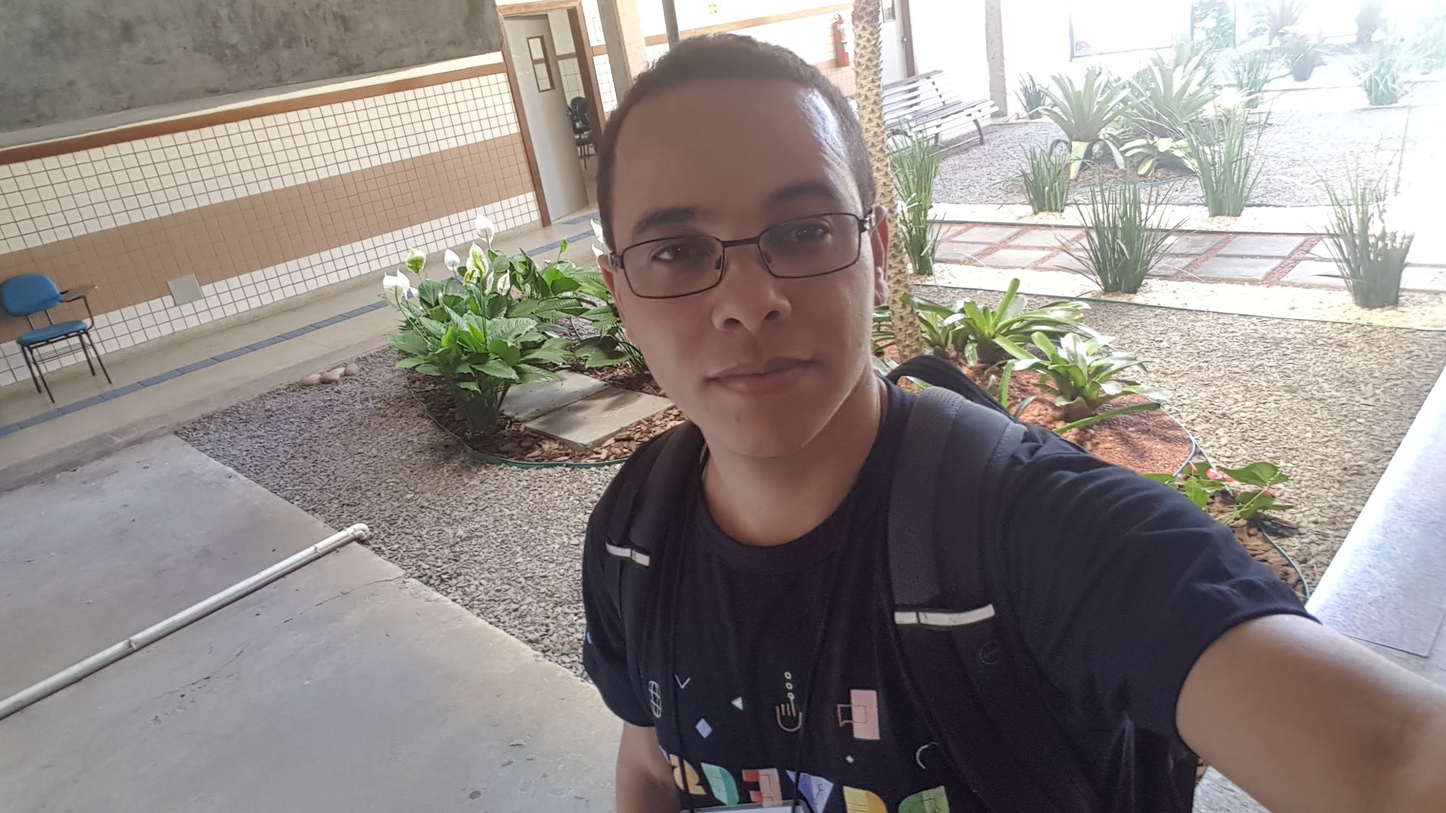
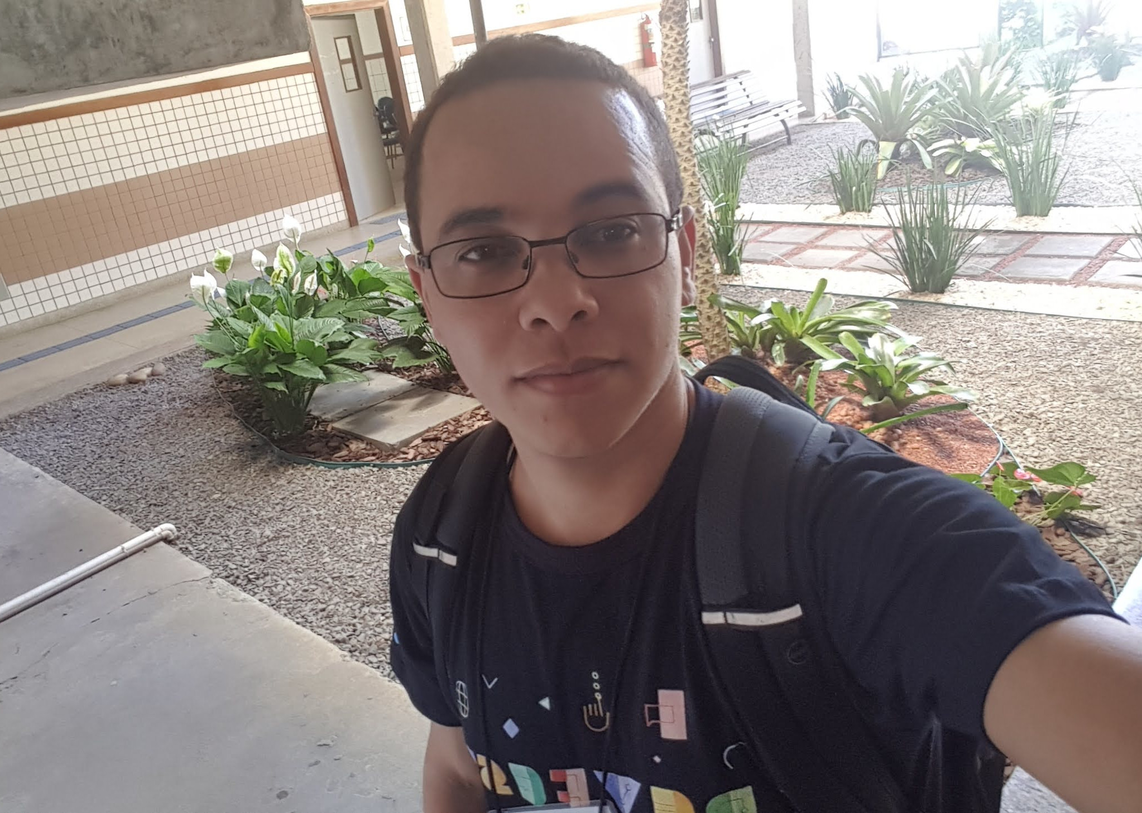
correção de portugues

diff --git a/index.html b/index.html
@@ -251,9 +251,9 @@
                     <div class="row">
                         <div class="col-lg-6">
                             <div class="owl-carousel sobre-nos-carousel">
-                                <img src="img/sintese/membros/alex-gdg.jpg" alt="Membros Sintese Jr.">
-<!--                                <img src="img/sintese/membros/alex-devaction.jpg" alt="Membros Sintese Jr.">-->
-                                <img src="img/sintese/membros/scrum.jpg" alt="Membros Sintese Jr.">
+                                <img src="img/sintese/membros/alex-gdg.jpg" alt="Membros DevAction.">
+                                <img src="img/sintese/membros/carlos-andre-3.jpg" alt="Membros DevAction.">
+                                <img src="img/sintese/membros/scrum.jpg" alt="Membros DevAction.">
                             </div>
 
                         </div>
